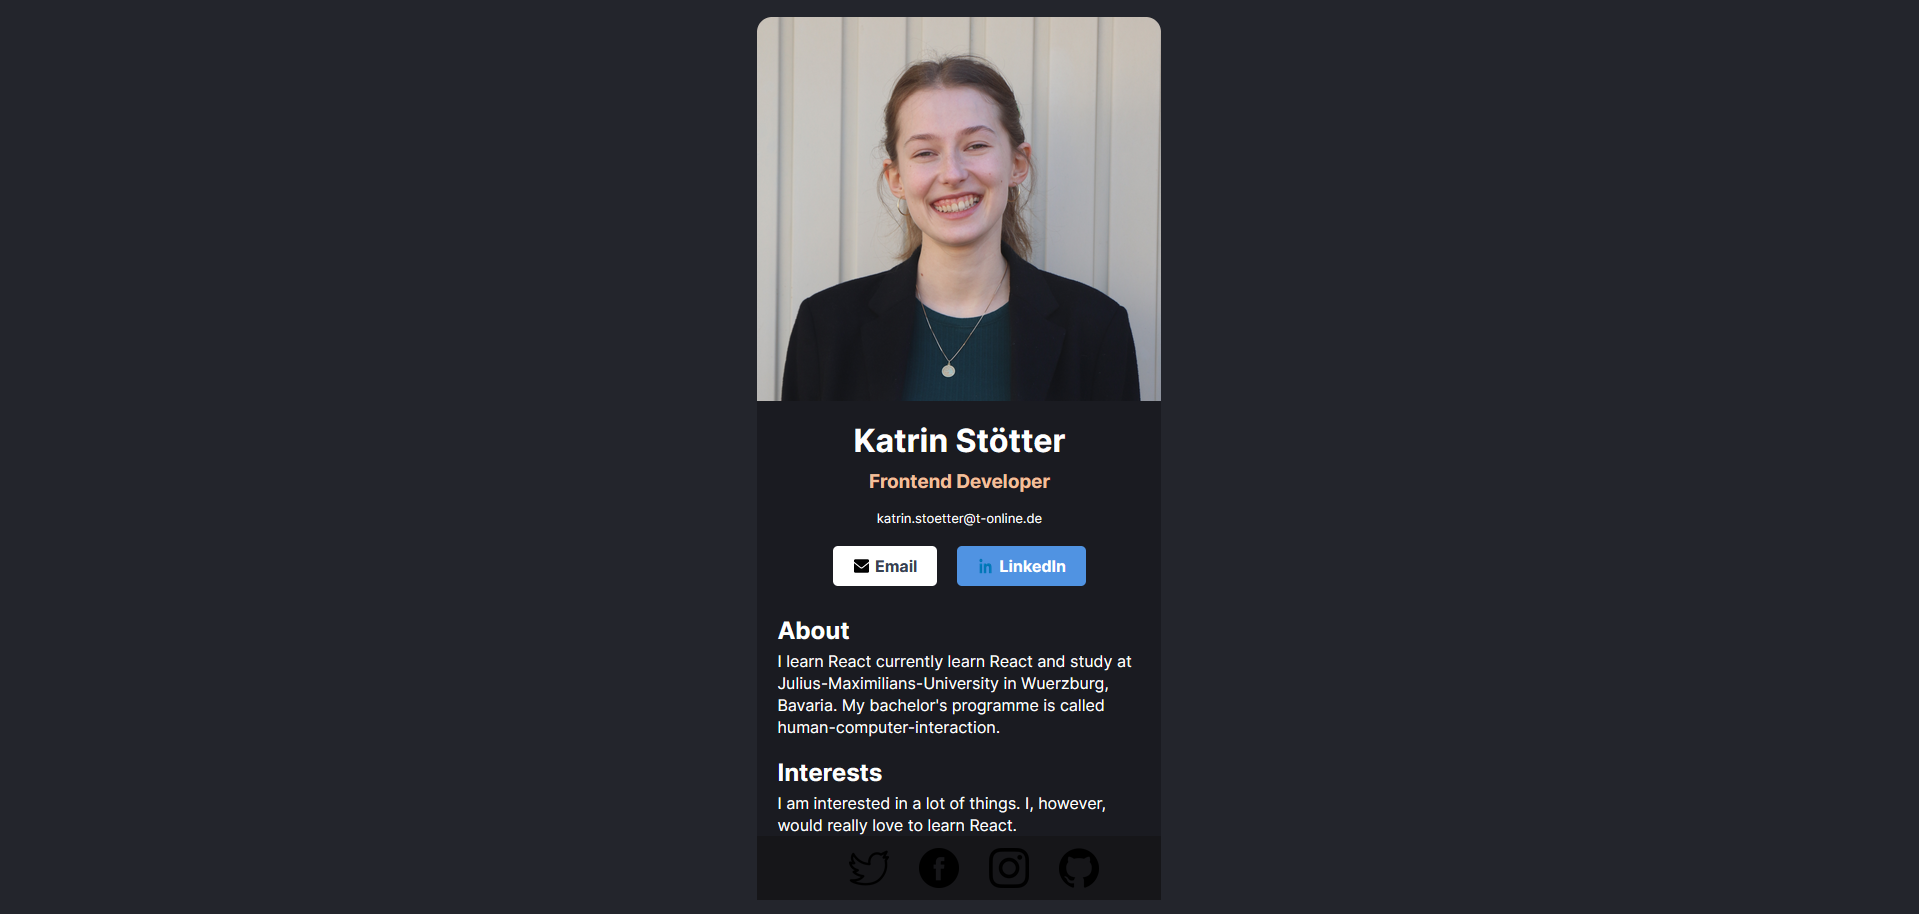
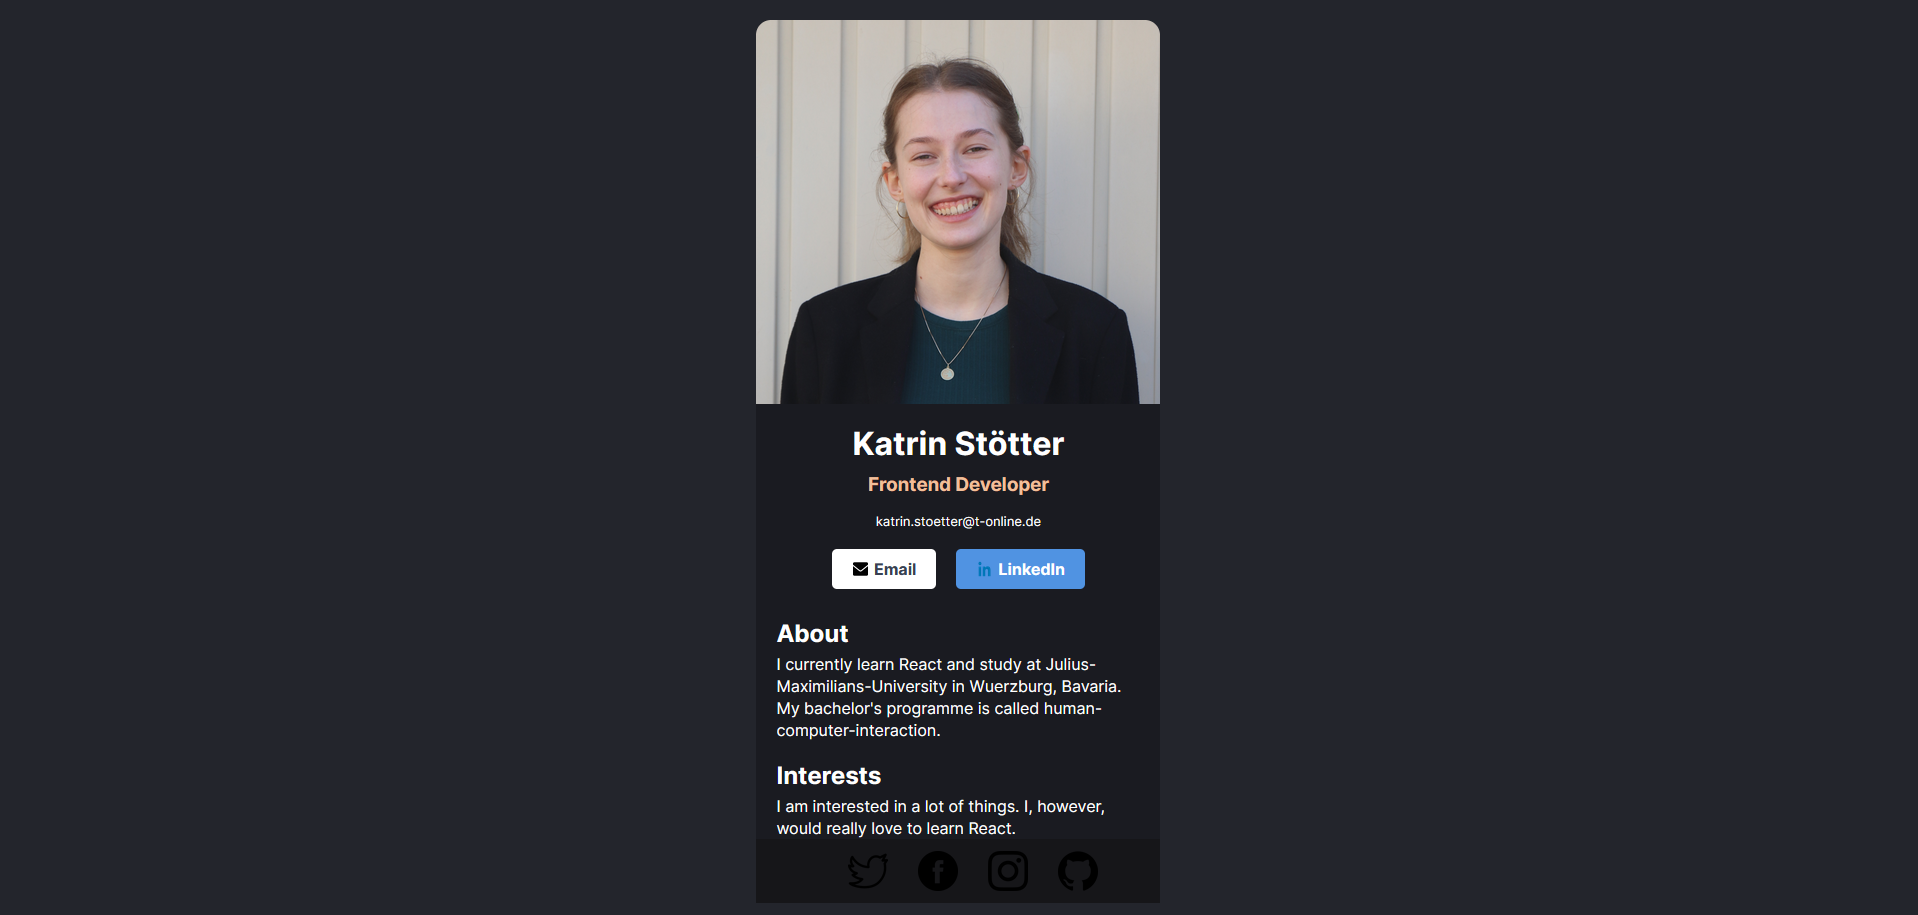
fixed typo in About section of page and updated img in readme

diff --git a/src/components/About.jsx b/src/components/About.jsx
@@ -2,7 +2,7 @@ export default function (){
     return(
         <div className="about-div">
             <h2>About</h2>
-            <p>I learn React currently learn React and study at Julius-Maximilians-University in Wuerzburg, Bavaria.
+            <p>I currently learn React and study at Julius-Maximilians-University in Wuerzburg, Bavaria.
                 My bachelor's programme is called human-computer-interaction.
             </p>
         </div>
